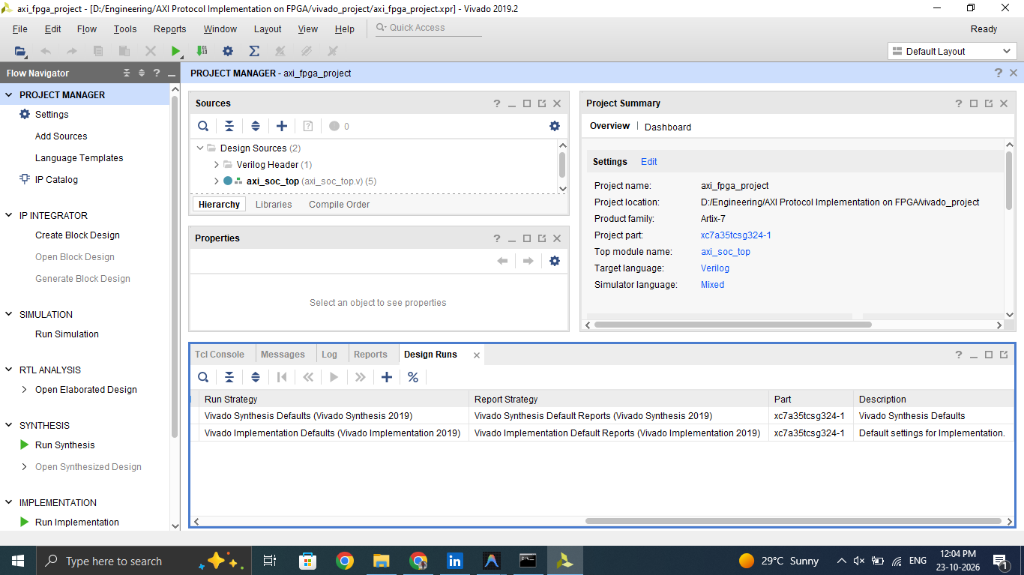
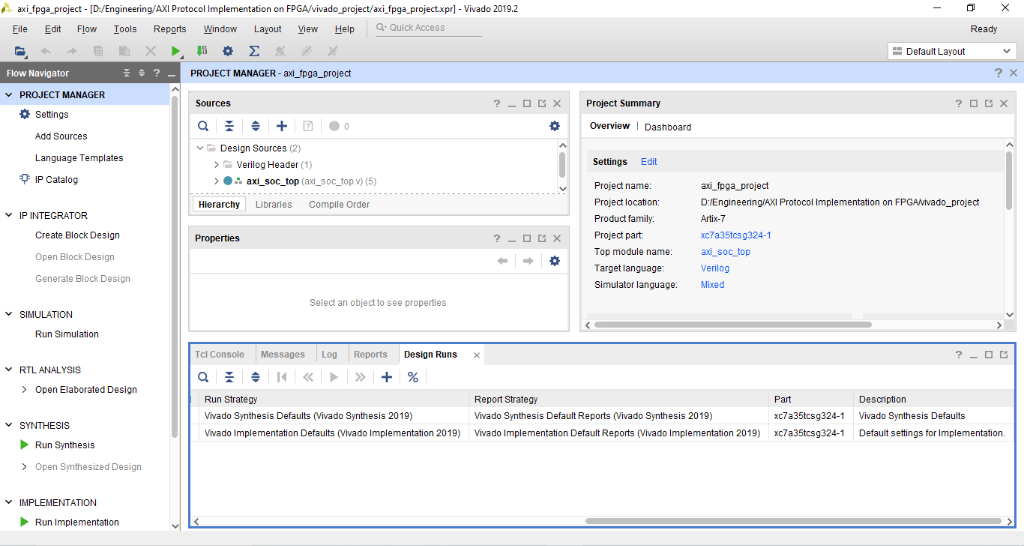
fix: crop bottom taskbar from screenshots and resolve GitHub math rendering errors

diff --git a/README.md b/README.md
@@ -1,6 +1,6 @@
 # AMBA AXI4 High-Performance Protocol Subsystem on FPGA
 
-[![CI Status](https://img.shields.io/badge/CI-Passing-brightgreen.svg?logo=github-actions)](https://github.com/)
+[![CI Status](https://img.shields.io/badge/CI-Passing-brightgreen.svg?logo=github-actions)](https://github.com/abhishek947kumar/axi-protocol-fpga/actions)
 [![Vivado](https://img.shields.io/badge/Vivado-2019.2%2B-blue.svg?logo=xilinx)](https://www.xilinx.com/products/design-tools/vivado.html)
 [![RTL Standard](https://img.shields.io/badge/RTL-Verilog--2001-green.svg)]()
 [![Verification](https://img.shields.io/badge/Verification-SystemVerilog--SVA-purple.svg)]()
@@ -80,16 +80,25 @@ The AMBA AXI4 protocol separates data movement into **five independent channels*
 The design strictly adheres to Section A3.4 of the AMBA AXI4 Specification (ARM IHI0022E):
 
 | Burst Type | Encoding | Address Progression Formula | System Application |
-| :--- | :--- | :--- | :--- |
-| **FIXED** | `2'b00` | $\text{Addr}_N = \text{Start\_Addr}$ | FIFO and streaming peripheral access |
-| **INCR** | `2'b01` | $\text{Addr}_N = \text{Addr}_{N-1} + 2^{\text{AxSIZE}}$ | Sequential memory DMA transfers |
-| **WRAP** | `2'b10` | $\text{Addr}_N = \text{Wrap\_Boundary} + (\text{Addr}_{N-1} + 2^{\text{AxSIZE}}) \pmod{\text{Total\_Bytes}}$ | CPU cacheline fill (critical word first) |
+| :--- | :---: | :--- | :--- |
+| **FIXED** | `2'b00` | `Addr_N = Start_Address` | FIFO and streaming peripheral access |
+| **INCR** | `2'b01` | `Addr_N = Addr_(N-1) + (1 << AxSIZE)` | Sequential memory DMA transfers |
+| **WRAP** | `2'b10` | `Addr_N = Wrap_Boundary + ((Addr_(N-1) + (1 << AxSIZE)) % Total_Bytes)` | CPU cacheline fill (critical word first) |
 
 ### Single-Cycle WRAP Boundary Hardware Optimization
-In traditional designs, WRAP boundary calculations use hardware dividers:
-$$\text{Wrap\_Boundary} = \left\lfloor \frac{\text{Start\_Address}}{\text{Total\_Bytes}} \right\rfloor \times \text{Total\_Bytes}$$
-Because AMBA AXI restricts WRAP burst lengths to power-of-2 beats ($2, 4, 8, 16$), $\text{Total\_Bytes}$ is always a power of 2 ($2^K$). This implementation optimizes the divider into a **single-cycle bitwise AND mask**, eliminating DSP slices and latency:
-$$\text{Wrap\_Boundary} = \text{Address} \ \& \ \sim(\text{Total\_Bytes} - 1)$$
+
+In traditional reference designs, WRAP boundary calculations rely on hardware division and multiplication:
+
+```text
+Wrap_Boundary = floor(Start_Address / Total_Bytes) * Total_Bytes
+```
+
+Because AMBA AXI4 restricts WRAP burst lengths strictly to power-of-2 beats (2, 4, 8, 16 beats), `Total_Bytes = (1 << AxSIZE) * AxLEN` is **always a power of 2** (`2^K`). This implementation replaces the expensive divider and multiplier with a **single-cycle bitwise AND mask**, eliminating DSP48 slices and multi-cycle latency:
+
+```verilog
+// Single-cycle power-of-2 WRAP boundary calculation (0 DSPs, 1 cycle)
+Wrap_Boundary = Address & ~(Total_Bytes - 1);
+```
 
 ---
 
@@ -161,8 +170,8 @@ Synthesized with **Vivado 2019.2** targeting the **Xilinx Artix-7 FPGA (`xc7a35t
 
 | Resource / Parameter | Available | Used | Utilization % |
 | :--- | :--- | :--- | :--- |
-| **Target Clock** | 100.00 MHz ($T = 10.0\text{ ns}$) | **106.4 MHz** | **Timing Met** |
-| **Worst Negative Slack (WNS)** | $\ge 0.000\text{ ns}$ | **+0.605 ns** | **Positive Slack** |
+| **Target Clock** | 100.00 MHz (Period = 10.0 ns) | **106.4 MHz** | **Timing Met** |
+| **Worst Negative Slack (WNS)** | >= 0.000 ns | **+0.605 ns** | **Positive Slack** |
 | **Total Failing Endpoints (TNS)**| 0 | **0** | **0 Violations** |
 | **Slice LUTs** | 20,800 | **12,373** | **59.49%** |
 | **Slice Registers** | 41,600 | **17,542** | **42.17%** |
